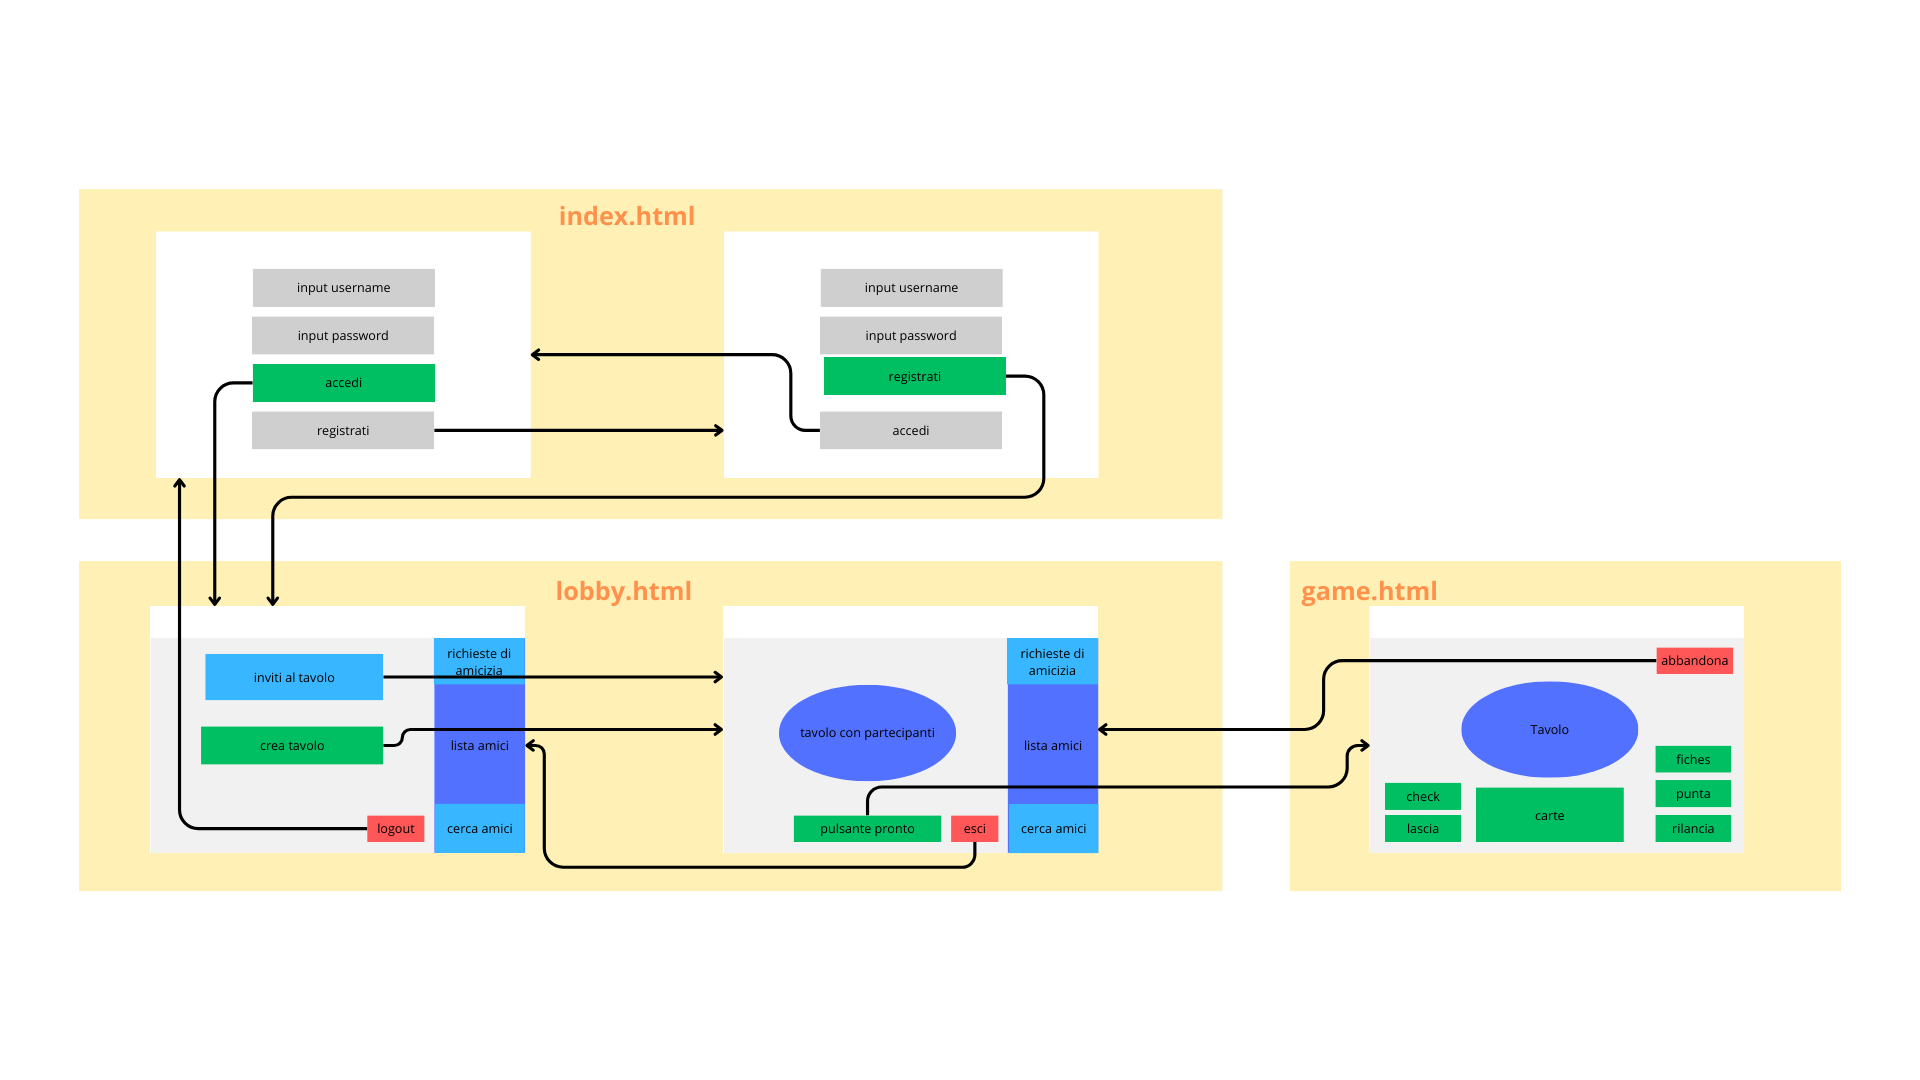
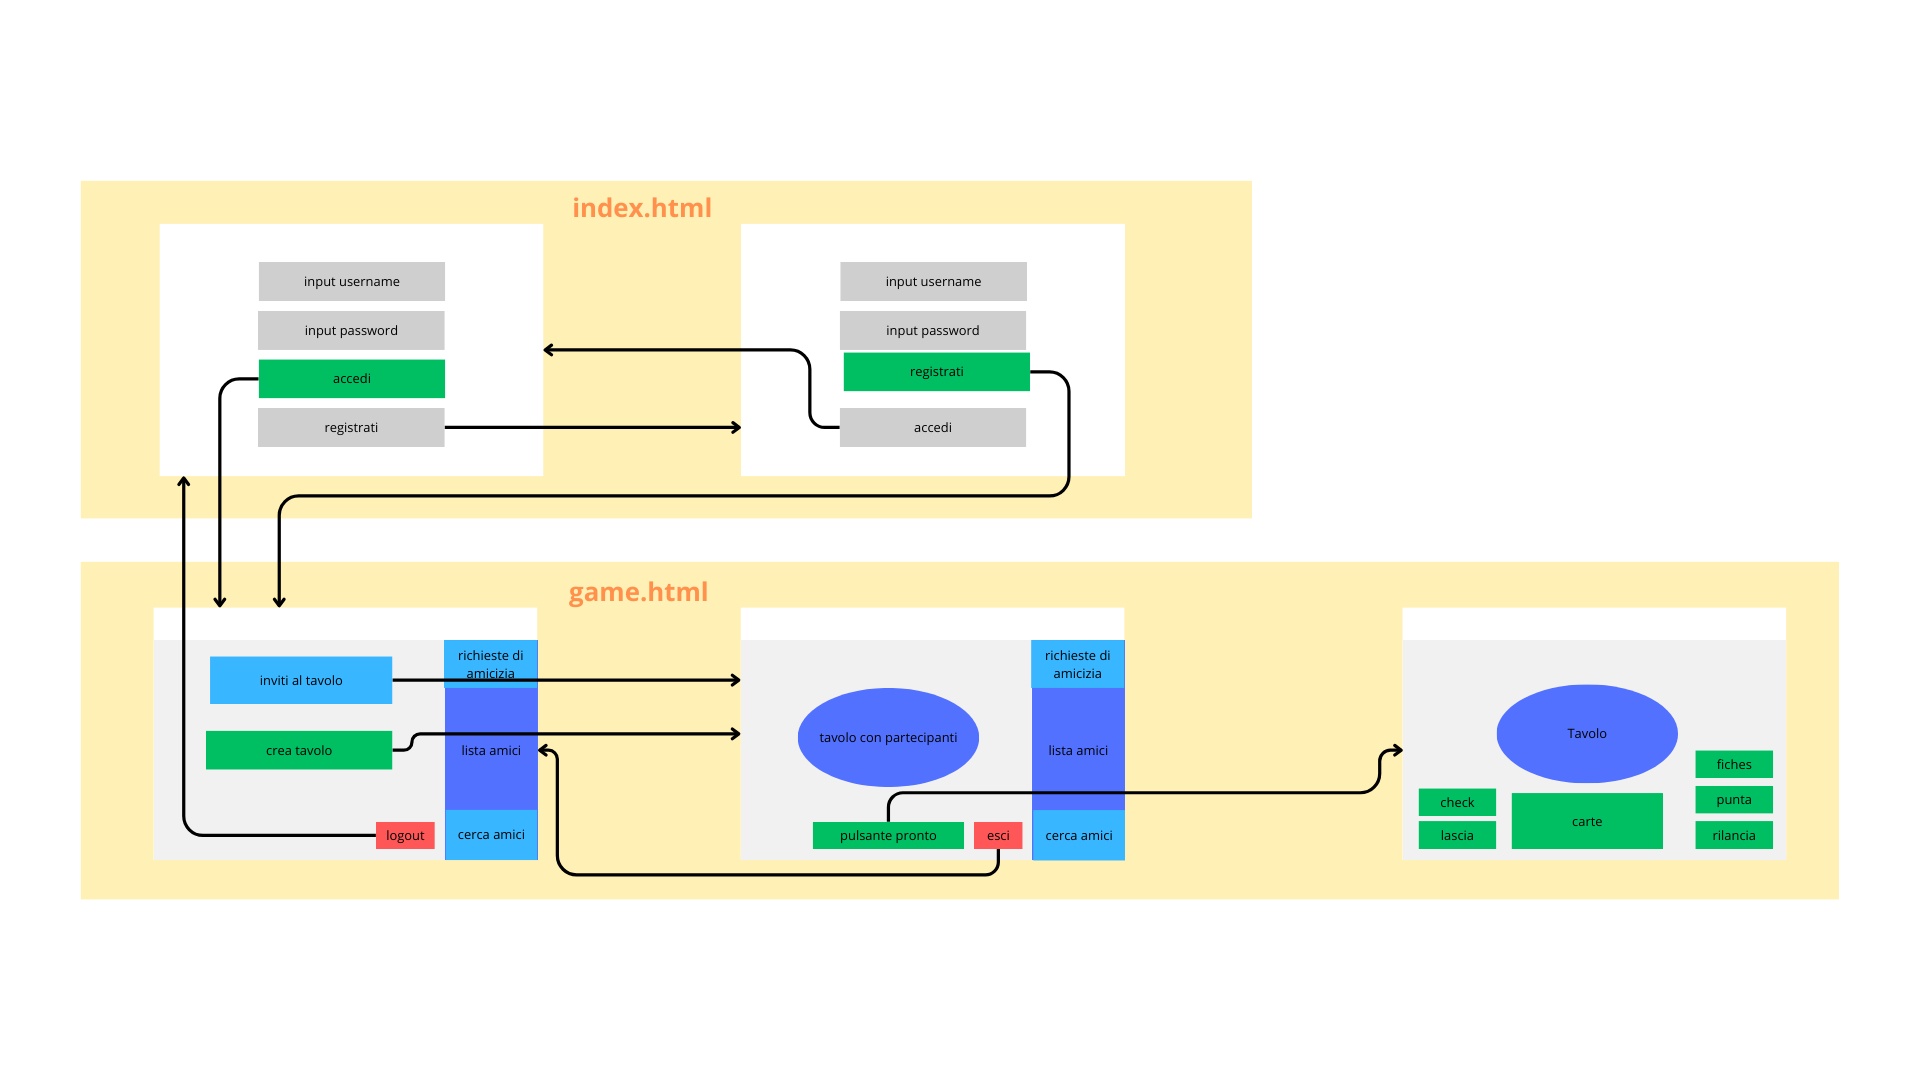
responsive

Changed region(s): [[0.0312, 0.1528, 0.9688, 0.8556], [0.4375, 0.6111, 0.4688, 0.6417]]

diff --git a/public/game.js b/public/game.js
@@ -180,7 +180,7 @@ socket.on("players", async(players) => {
 
 
 socket.on("start hand", async(info) => {	
-	console.log("start hand")
+	console.log("start hand");
 	in_game = true;
 	inf = info;
 	vincitori = [];
@@ -207,6 +207,7 @@ socket.on("hand", async(info) => {
 		bet_in.min = 0;
 	};
 	inf = info;
+	div_moves.classList.remove("your_turn");
 	bet_in.readOnly = false;
 
 	check_b.disabled = true;
@@ -226,11 +227,11 @@ socket.on("turn", async(turn) => { //{giro:1,turno:2}
 	} else if (turn.giro==1 && inf.puntate_giro.length==1) {
 		bet_in.value = inf.small_blind*2;	//big blind
 		bet_in.readOnly = true;
-	} else {	//se non è small o big blind ABILITARE PIU DI UN RILANCIO, MOSTRARE DI CHI E IL TURNO
+	} else {
 		let somme = inf.puntate_giro.map((puntata) => {return puntata.somma});
 		let min = Math.max(0,...somme);
 		let puntata = inf.puntate_giro.find((puntata) => puntata.username == getCookie("username"));
-		if (puntata) {	//se ha già puntato non può rilanciare
+		if (puntata) {
 			min = min>puntata.somma? min-puntata.somma:min;
 			bet_in.readOnly = true;
 		};
@@ -239,6 +240,7 @@ socket.on("turn", async(turn) => { //{giro:1,turno:2}
 		check_b.disabled = min? true:false;
 		fold_b.disabled = false;
 	};
+	div_moves.classList.add("your_turn");
 	bet_b.disabled = false;
 });
 
@@ -295,6 +297,7 @@ socket.on("end hand", async(winners) => { //[ordine,ordine...]
 	//draw vincitori e tasto per tornare al tavolo
 	vincitori = winners;
 	setTimeout(() => {
+		document.body.classList.remove("game_board");
 		console.log("end hand")
 		socket.emit("unready");
 		in_game = false;
@@ -360,33 +363,3 @@ window.addEventListener("resize", () => {
 	};
 
 });
-
-/*
-//{n_mano:,small_blind:,dealer:,giro:,turno:,puntate_giro:,somma_tot:,carte:[{id,valore,seme,path}],players:[{username,pronto,ordine,fiches,eliminato}]}
-create_table_b.classList.add("d-none");
-invites_container.classList.add("d-none");
-canvas_container.classList.add("full-screen")
-navbar.classList.add("dis-none");
-div_friends.classList.add("dis-none");
-div_invites.classList.add("dis-none");
-div_bottom.classList.remove("d-none");
-
-let infor = {carte:[{path:"/cards/7-2.png"},{path:"/cards/7-2.png"},{path:"/cards/7-2.png"}], players:[],
-			dealer:1, giro:1, n_mano:1, puntate_giro:[], small_blind:1, somma_tot:null, turno:2,
-			players:[{username:"aa",ordine:1,fiches:250},{username:"prova",ordine:2,fiches:500},
-			{username:"mirkomaralit",ordine:3,fiches:200},{username:"mirkomarawaw",ordine:3,fiches:10},
-			{username:"prova",ordine:2,fiches:250}
-		],in_gioco:[{username:"aa"},{username:"prova"},{username:"mirkomaralit"}]
-		}
-
-let cards = [{path:"/cards/14-2.png"},{path:"/cards/9-2.png"}]
-setTimeout(() => {
-	canvas.width  = canvas.offsetWidth;
-	canvas.height = canvas.offsetHeight;
-	canvas_fiches.width  = canvas_fiches.offsetWidth;
-	draw_hand(canvas,canvas_fiches,step,infor);
-	canvas_cards.width  = canvas_cards.offsetWidth;
-	canvas_cards.height = canvas_cards.offsetHeight;
-	draw_your_cards(canvas_cards,step,cards);
-}, 500);
-*/

diff --git a/public/canvas.js b/public/canvas.js
@@ -120,6 +120,7 @@ const transition = async (canvas,canvas_fiches,canvas_cards,step,info) => {
 	        document.getElementById("div_invites").classList.add("dis-none");
             document.getElementById("div_bottom").classList.remove("d-none");
             setTimeout(() => {
+                document.body.classList.add("game_board");
                 canvas.width  = canvas.offsetWidth;
                 canvas.height = canvas.offsetHeight;
                 canvas_fiches.width  = canvas_fiches.offsetWidth;
@@ -240,7 +241,7 @@ const draw_hand = async (canvas,canvas_fiches,step,info,last_move,vincitori,all_
         i++;
     });
 
-    images.forEach((image) => { //l'ordine di visualizzazione è casuale???
+    images.forEach((image) => { //l'ordine di visualizzazione è casuale
         image.onload = () => {
             ctx.drawImage(image,c.x-((7/2)*cardwidth+6*step)+images.indexOf(image)*(2*step+cardwidth),c.y-cardheight/2,cardwidth,cardheight);
         };
@@ -260,19 +261,7 @@ const draw_hand = async (canvas,canvas_fiches,step,info,last_move,vincitori,all_
 
     let colore = "";
     //se il giocatore è in gioco o ha fatto all in
-    let condizione_pre = false;
-    if (info.in_gioco.length >= info.turno) {
-        condizione_pre = info.in_gioco[info.turno-1].ordine == player.ordine;
-    };
-    const condizione = (!usernames_in_gioco.includes(player.username) && !player.fiches) || condizione_pre;
-    if (condizione) {
-        ctx.shadowColor = "#7df9ff";
-        ctx.shadowBlur = 20;
-        ctx.fillStyle = "#7df9ff";
-        ctx.beginPath();
-        ctx.roundRect(c.x-width/4-step/2,c.y+height/4-step/2, width/2+step, height/4+step*2,step);
-        ctx.fill();
-    } else if (!usernames_in_gioco.includes(player.username)) {
+    if (!usernames_in_gioco.includes(player.username)) {
         colore = "#657774";
     };
 
@@ -333,7 +322,6 @@ const draw_hand = async (canvas,canvas_fiches,step,info,last_move,vincitori,all_
     // i = 0 quando player username = player ordine username
 
     let ordine = player.ordine;
-    let lista_ordini = info.players.map((a) => a.ordine);
     
     info.players = info.players.sort((a, b) => a.ordine - b.ordine);
     let start = info.players.splice(0,ordine-1);
@@ -542,7 +530,7 @@ const draw_your_cards = (canvas,step,cards) => {
         images[i].src = carta.path;
         i++;
     });
-    images.forEach((image) => { //l'ordine di visualizzazione è casuale???
+    images.forEach((image) => { //l'ordine di visualizzazione è casuale
         image.onload = () => {
             ctx.drawImage(image,c.x-(cardwidth+step)+images.indexOf(image)*(2*step+cardwidth),c.y-cardheight/2,cardwidth,cardheight);
         };

diff --git a/index.html b/index.html
@@ -63,7 +63,7 @@
            
           </ul>
 		</li>
-        <li class="nav-item"><a class="nav-link" href="#contenuti">Contenuti</a>
+        <li class="nav-item"><a class="nav-link" href="#infrastruttura">Ipotesi Infrastruttura</a>
           
         </li>
 		<li class="nav-item"><a class="nav-link" href="#wireframes">Wireframes</a></li>
@@ -93,7 +93,6 @@
           - Il giocatore che perde può assistere alla partita o abbandonare il tavolo <br>
         </p><p class="lead">
           Le regole di gioco sono quelle del texas hold 'em: <br>
-          - Il dealer cambia ad ogni mano <br>
           - Grande e piccolo buio <br>
           - Tutti partono con lo stesso numero di fiches <br>
           - Si perde arrivando a 0 fiches, non è possibile rientrare <br>
@@ -163,14 +162,6 @@
 
         </section>
 
-        <hr class="divider">
-
-        <section id="contenuti">
-          <h2>Contenuti del progetto</h2>
-          <p class="lead">In questa sezione vanno inseriti i contenuti, organizzati per parti e con un numero di immaginin significative</p>
-
-        </section>
-
          <hr class="divider">
 
         <section id="wireframes">
@@ -181,7 +172,7 @@
 
           <section id="progetto">
           <h2>Il progetto</h2>
-          <p class="lead">In questa sezione vanno inserite ulteriori informazioni aggiuntive (es. credenziali) ed il link al progetto </p>
+          <p class="lead"></p>
 
             <section id="link">
             <h2>Link al progetto</h2>

diff --git a/public/styles.css b/public/styles.css
@@ -3,6 +3,10 @@ body {
     background-attachment: fixed;
 }
 
+.game_board {
+    background-image: linear-gradient(to bottom right,#28625b,#2a6c65,#28625b,#2a6c65,#28625b,#2a6c65 ) !important;
+} 
+
 .tavolo {
     background: linear-gradient(#2a6c65, #28625b) padding-box,
               linear-gradient( #7d425e, #723e57) border-box;
@@ -220,11 +224,15 @@ input::placeholder {
 
 
 #div_moves {
-    background: linear-gradient(to bottom right,rgba(40,98,91,1), rgba(18,53,36,0.7));
+    background: linear-gradient(to bottom right,rgba(18,53,36,0.7),rgba(40,98,91,1), rgba(18,53,36,0.7),rgba(40,98,91,1));
     border-bottom: 0;
     border-radius: 10px 10px 0 0;
 }
 
+.your_turn {
+    background: linear-gradient(to bottom right,rgba(71,135,120,0.7),rgba(127,255,212,0.5), rgba(71,135,120,0.7),rgba(127,255,212,0.5)) !important;
+    box-shadow: inset 0px 0px 2vw #7df9ff;
+}
 
 #bet_in {
     background: rgba(125,249,255,0.1);

diff --git a/index.js b/index.js
@@ -8,7 +8,6 @@ const { Server } = require("socket.io");
 
 const db = require("./database.js");
 const carte = require("./carte.js");
-const { platform } = require("os");
 const init = async () => {
     await db.createTables(); //crea le tabelle se non esistono
     await carte.generate_cards();
@@ -456,11 +455,7 @@ io.of("/").adapter.on("leave-room", async (room, socket_id) => {    //room=tavol
 });
 
 io.on("connection", (socket) => {
-    /* STRUTTURA */
-    /* 1: get dei dati (usernames e sockets) */
-    /* 2: operazioni nel database/rooms */
-    /* 3: risposta ai sockets */
-
+    
     socket.on("login", async (m) => {
         const username = m.username;
         if ((await db.get_socket(username)).length) {

diff --git a/public/game.html b/public/game.html
@@ -86,7 +86,7 @@
         </div>
 
         <div id="div_bottom" class="d-none d-flex col-12 justify-content-center align-items-center p-0 m-0" style="height: 25vh;z-index:2; position:absolute;bottom:0;">
-          <div id="div_moves" class="row col-6 col-md-9 col-sm-12 h-100 p-0 m-0 justify-content-center align-items-end">
+          <div id="div_moves" class="row col-12 col-sm-10 col-md-8 col-lg-6 col-sm-6 h-100 p-0 m-0 justify-content-center align-items-end">
 
             <div class="d-flex row col-3 px-4 py-2 m-0 h-50">
               
